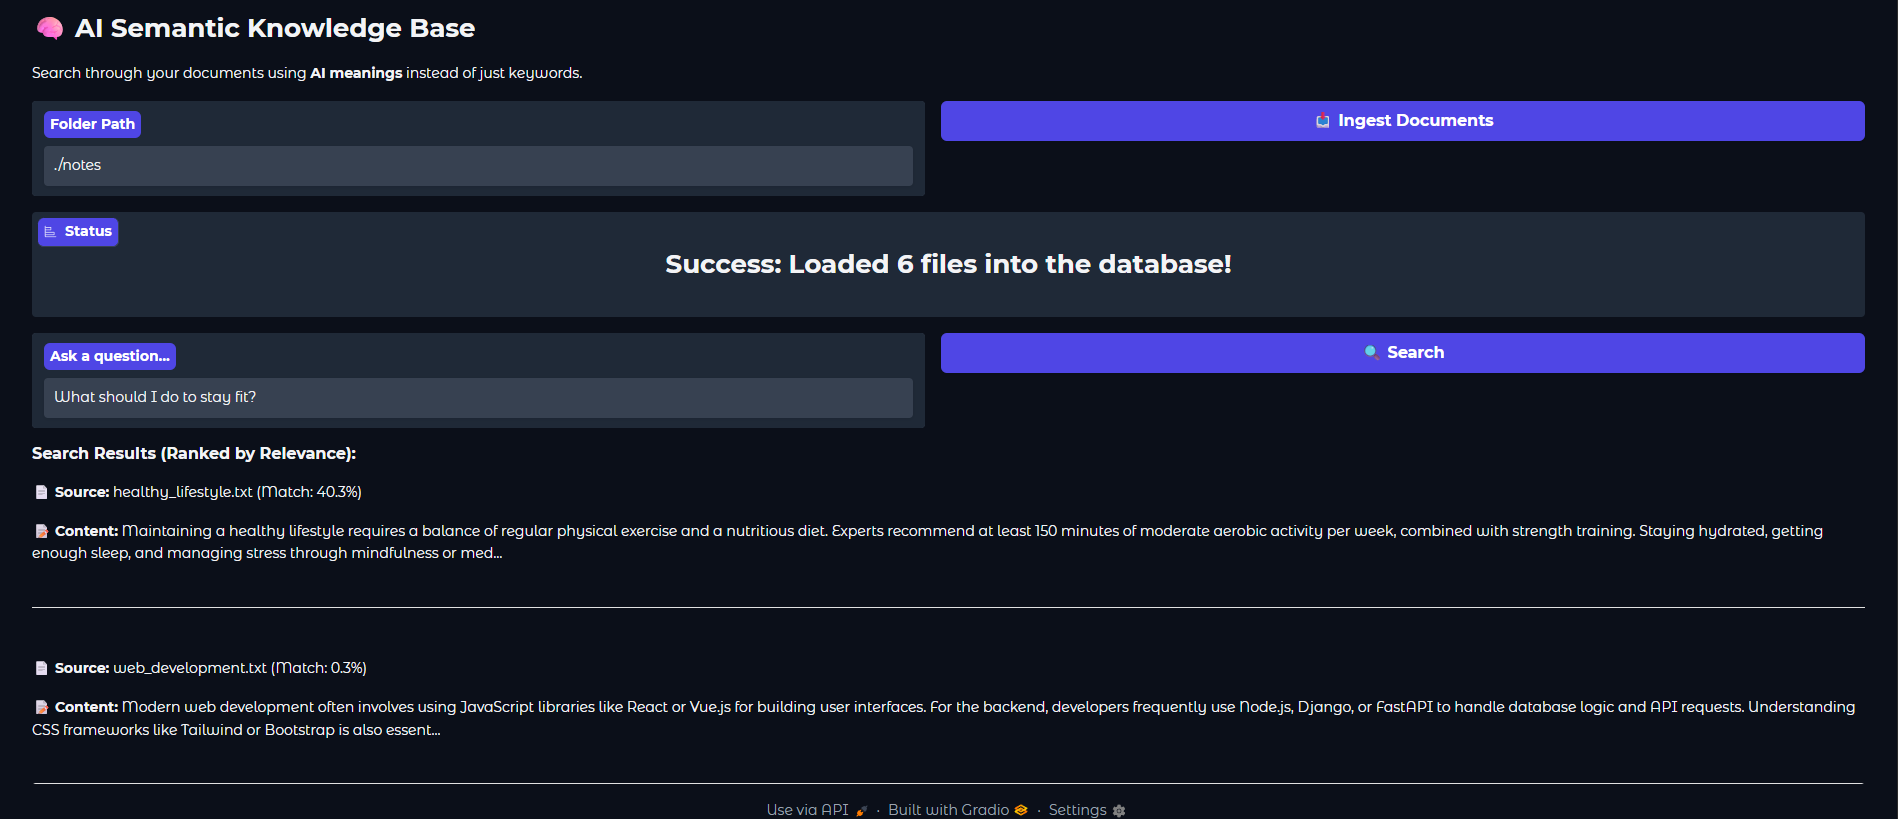
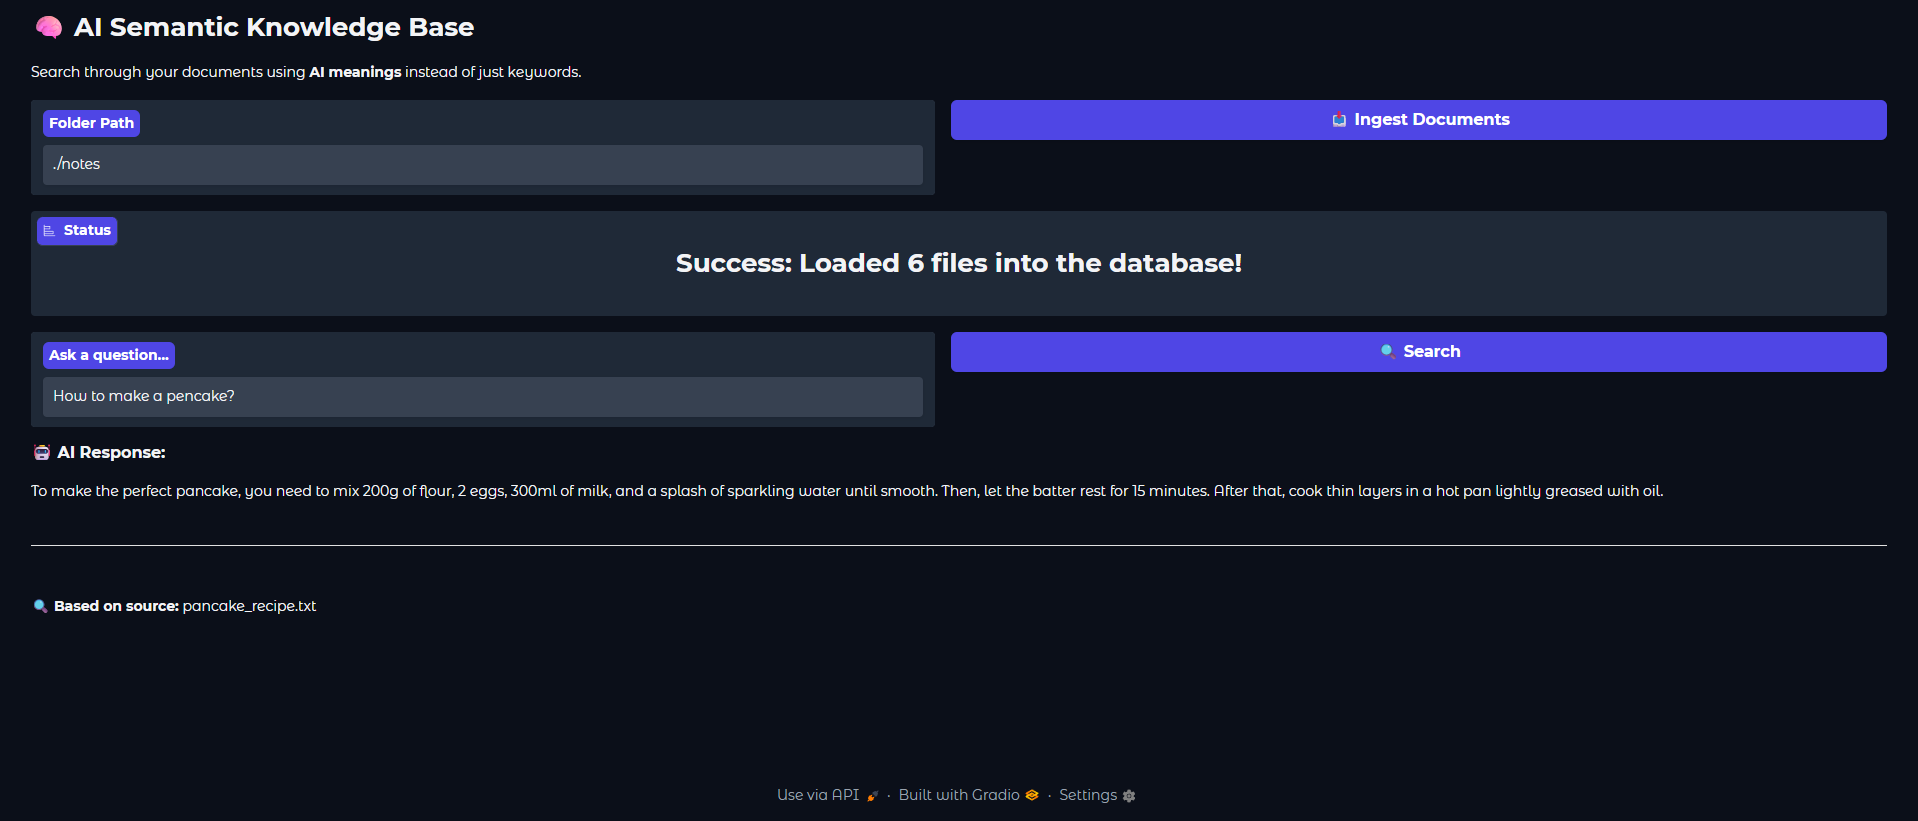
ai 2

diff --git a/src/pages/Projects.jsx b/src/pages/Projects.jsx
@@ -14,9 +14,9 @@ import aiSearch from "../assets/images/aisearch.png";
 
 const projectsData = [
   {
-    title: "🤖 AI-Powered Document Search",
-    tech: "Python, SentenceTransformers, Gradio, ChromaDB",
-    desc: "Semantic Search Engine that allows users to query a set of documents based on their actual meaning rather than just keywords.",
+    title: "🤖 AI-Powered RAG Knowledge Base",
+    tech: "Python, Llama 3 (Groq), SentenceTransformers, ChromaDB, Gradio",
+    desc: "Multilingual RAG system using Llama 3 and ChromaDB to chat with private documents accurately and without hallucinations.",
     github: "https://github.com/Davidva0812/semantic-knowledge-base",
     img: aiSearch,
   },
